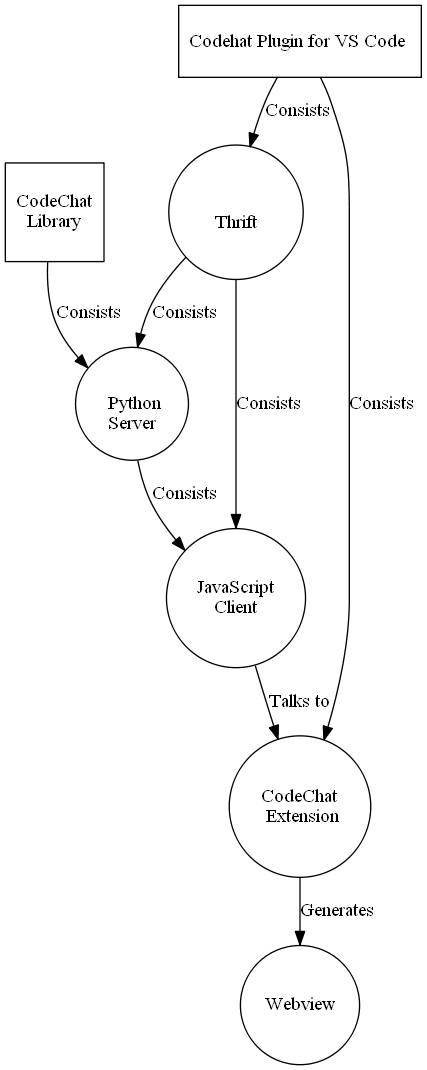
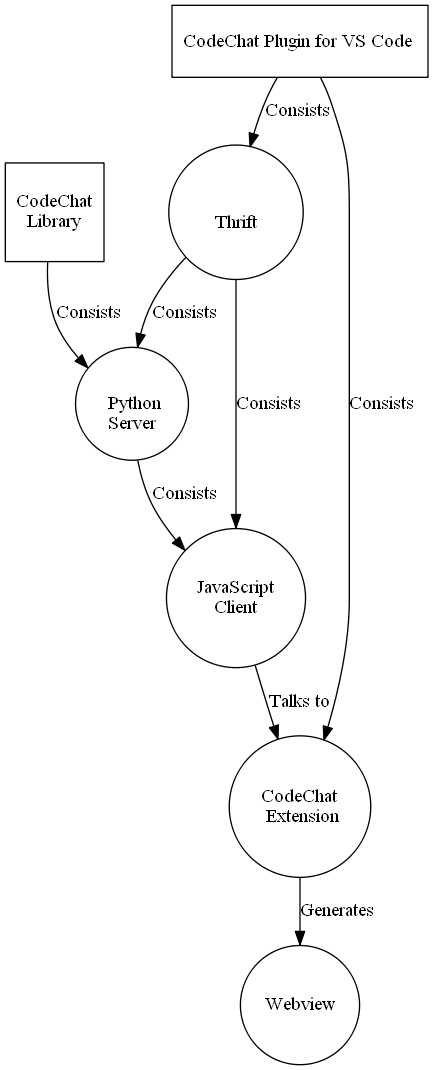
Updated

diff --git a/index.rst b/index.rst
@@ -8,7 +8,7 @@ The CodeChat plugin transforms source code into a web page, allowing software de
 
     bgcolor="transparent"
 
-    CodeChat_plugin [label="\nCodehat Plugin for VS Code \n \n",shape=rectangle]
+    CodeChat_plugin [label="\nCodeChat Plugin for VS Code \n \n",shape=rectangle]
 
     Thrift [label="\n\nThrift\n\n", shape=circle]
     CodeChat_plugin -> Thrift [ label="Consists"];

diff --git a/Thrift/JavaScript_Client/index.rst b/Thrift/JavaScript_Client/index.rst
@@ -19,12 +19,6 @@ Export function is used to export Clientfunc to extension.
 
     exports.myfunc=myfunc
 
-.. toctree::
-
-    Client.js
-
-
-
 
 Contents:
 
